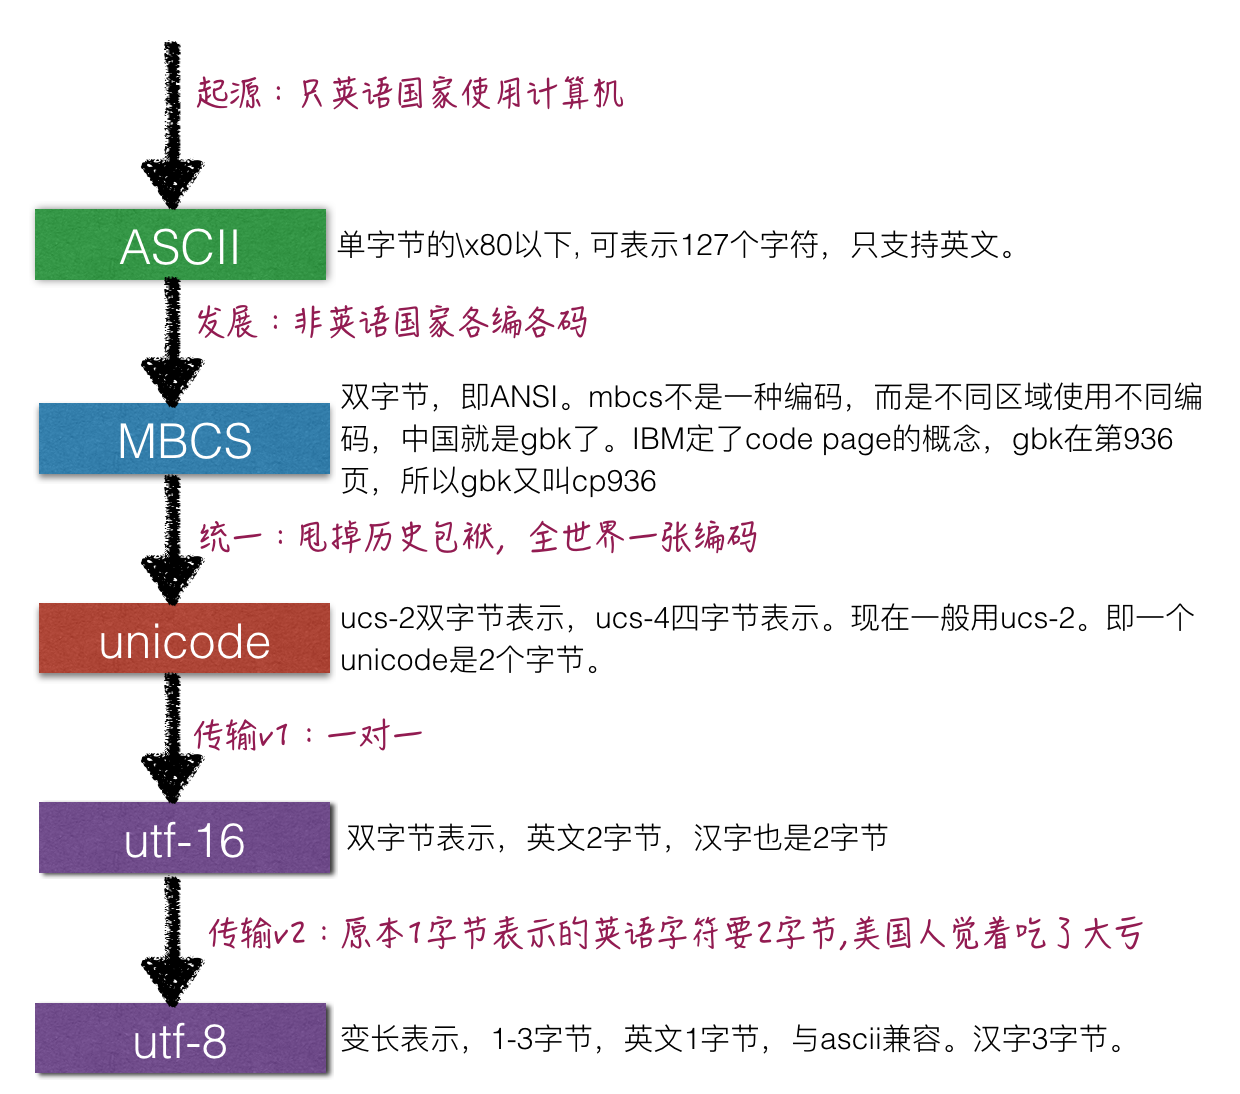
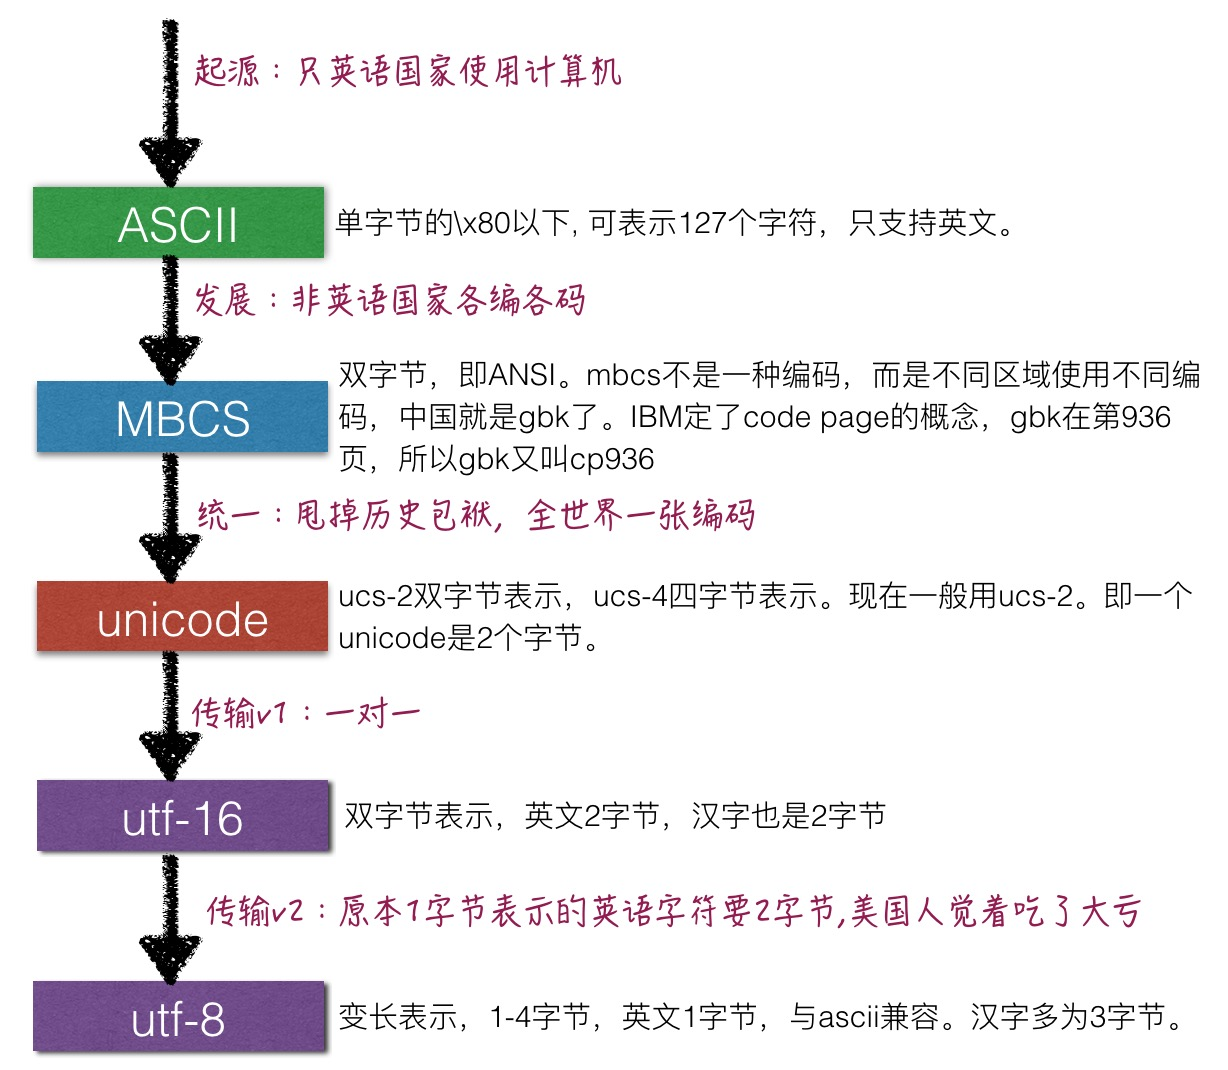
Site updated: 2016-07-19 00:06:20

diff --git a/2016/07/17/字符编码小结/index.html b/2016/07/17/字符编码小结/index.html
@@ -84,20 +84,32 @@
 
 
 
-<meta name="description" content="不总结一下字符编码，简直对不起这些年踩过的坑们。
-字符编码字符编码可以理解为一张一对一的码表，什么？你说你没见过码表，讲真，ascii码表你没见过？！中国常用字符编码的关系可以参考下图。">
+<meta name="description" content="不总结一下字符编码，感觉对不起这些年我踩过的坑们。
+字符编码字符编码可以理解为一张一对一的码表，ascii码表即最常见的码表之一，中国常用字符编码的关系可以参考下图。
+
+美国人可真强势，自己享受1字节，让众多非英语国家，unicode编码从2字节变为2~4字节。中文大多数为3字节。
+GBK你一定对GB2312，GBK，GB1080一堆的玩意不陌生。GB的意思是国标。是在unicode之前中国自己搞">
 <meta property="og:type" content="article">
 <meta property="og:title" content="字符编码小结">
 <meta property="og:url" content="http://yoursite.com/2016/07/17/字符编码小结/index.html">
 <meta property="og:site_name" content="Daisy's Home">
-<meta property="og:description" content="不总结一下字符编码，简直对不起这些年踩过的坑们。
-字符编码字符编码可以理解为一张一对一的码表，什么？你说你没见过码表，讲真，ascii码表你没见过？！中国常用字符编码的关系可以参考下图。">
+<meta property="og:description" content="不总结一下字符编码，感觉对不起这些年我踩过的坑们。
+字符编码字符编码可以理解为一张一对一的码表，ascii码表即最常见的码表之一，中国常用字符编码的关系可以参考下图。
+
+美国人可真强势，自己享受1字节，让众多非英语国家，unicode编码从2字节变为2~4字节。中文大多数为3字节。
+GBK你一定对GB2312，GBK，GB1080一堆的玩意不陌生。GB的意思是国标。是在unicode之前中国自己搞">
 <meta property="og:image" content="http://yoursite.com/img/unicode.png">
-<meta property="og:updated_time" content="2016-07-17T15:59:50.000Z">
+<meta property="og:image" content="http://yoursite.com/img/gbk.png">
+<meta property="og:image" content="http://yoursite.com/img/gbk1.png">
+<meta property="og:image" content="http://yoursite.com/img/endecode.png">
+<meta property="og:updated_time" content="2016-07-18T16:06:00.000Z">
 <meta name="twitter:card" content="summary">
 <meta name="twitter:title" content="字符编码小结">
-<meta name="twitter:description" content="不总结一下字符编码，简直对不起这些年踩过的坑们。
-字符编码字符编码可以理解为一张一对一的码表，什么？你说你没见过码表，讲真，ascii码表你没见过？！中国常用字符编码的关系可以参考下图。">
+<meta name="twitter:description" content="不总结一下字符编码，感觉对不起这些年我踩过的坑们。
+字符编码字符编码可以理解为一张一对一的码表，ascii码表即最常见的码表之一，中国常用字符编码的关系可以参考下图。
+
+美国人可真强势，自己享受1字节，让众多非英语国家，unicode编码从2字节变为2~4字节。中文大多数为3字节。
+GBK你一定对GB2312，GBK，GB1080一堆的玩意不陌生。GB的意思是国标。是在unicode之前中国自己搞">
 <meta name="twitter:image" content="http://yoursite.com/img/unicode.png">
 
 
@@ -291,9 +303,27 @@
       
 
       
-        <p>不总结一下字符编码，简直对不起这些年踩过的坑们。</p>
-<h2 id="字符编码"><a href="#字符编码" class="headerlink" title="字符编码"></a>字符编码</h2><p>字符编码可以理解为一张一对一的码表，什么？你说你没见过码表，讲真，ascii码表你没见过？！中国常用字符编码的关系可以参考下图。</p>
+        <p>不总结一下字符编码，感觉对不起这些年我踩过的坑们。</p>
+<h2 id="字符编码"><a href="#字符编码" class="headerlink" title="字符编码"></a>字符编码</h2><p>字符编码可以理解为一张一对一的码表，ascii码表即最常见的码表之一，中国常用字符编码的关系可以参考下图。</p>
 <p><img src="/img/unicode.png" alt="字符编码"></p>
+<p>美国人可真强势，自己享受1字节，让众多非英语国家，unicode编码从2字节变为2~4字节。中文大多数为3字节。</p>
+<h2 id="GBK"><a href="#GBK" class="headerlink" title="GBK"></a>GBK</h2><p>你一定对GB2312，GBK，GB1080一堆的玩意不陌生。GB的意思是国标。是在unicode之前中国自己搞的一套编码。具体来说就是这样的。</p>
+<p><img src="/img/gbk.png" alt="gbk发展"></p>
+<p>在GB2312阶段，要求2个字节都大于127, 这样，中文汉字与ascii表字符是很好区分的。但这样表示的汉字数量有限，不够发挥啊，所以到GBK阶段，放弃了第2字节必须大于127的要求。这样一来，表示所有汉字倒是够了，但从此以后，中英文夹杂的GBK编码，只能先判断是不是大于127，如果是，我跳一位，如果不是，认为是英文。这简直是<strong><em>万坑之源！！！</em></strong></p>
+<p><img src="/img/gbk1.png" alt="gbk跳"></p>
+<p>从此以后，买张cd看真的好难！</p>
+<p>更别提字符分隔这等事件了，如果你的日志是用竖线分隔，如果你的日志包含中文，如果你的中文是gbk编码，那么。。。我劝你还是转了utf-8再分隔吧。。。</p>
+<figure class="highlight python"><table><tr><td class="gutter"><pre><div class="line">1</div><div class="line">2</div><div class="line">3</div><div class="line">4</div><div class="line">5</div><div class="line">6</div><div class="line">7</div><div class="line">8</div><div class="line">9</div></pre></td><td class="code"><pre><div class="line"><span class="meta">&gt;&gt;&gt; </span>s=<span class="string">"滕华弢|海青"</span></div><div class="line"><span class="meta">&gt;&gt;&gt; </span>s</div><div class="line"><span class="string">'\xeb\xf8\xbb\xaa\x8f||\xba\xa3\xc7\xe0'</span></div><div class="line"><span class="meta">&gt;&gt;&gt; </span>x=s.split(<span class="string">'|'</span>)</div><div class="line">[<span class="string">'\xeb\xf8\xbb\xaa\x8f'</span>, <span class="string">''</span>, <span class="string">'\xba\xa3\xc7\xe0'</span>]</div><div class="line"><span class="meta">&gt;&gt;&gt; </span><span class="keyword">print</span> x[<span class="number">0</span>]</div><div class="line">滕华�</div><div class="line"><span class="meta">&gt;&gt;&gt; </span><span class="keyword">print</span> x[<span class="number">2</span>]</div><div class="line">海青</div></pre></td></tr></table></figure>
+<p>上面的”弢“字，gbk编码为0x8f7c，第2字节编码恰好与分隔线“|”重合了。分隔之后，直接分隔就会导致以上错误。</p>
+<h2 id="UTF-8"><a href="#UTF-8" class="headerlink" title="UTF-8"></a>UTF-8</h2><h4 id="编码"><a href="#编码" class="headerlink" title="编码"></a>编码</h4><p>unicode到utf-16的转换很简单，一对一。到utf-8遵循以下规则。</p>
+<figure class="highlight bash"><table><tr><td class="gutter"><pre><div class="line">1</div><div class="line">2</div><div class="line">3</div><div class="line">4</div><div class="line">5</div><div class="line">6</div><div class="line">7</div><div class="line">8</div></pre></td><td class="code"><pre><div class="line">unicode</div><div class="line">UTF-8</div><div class="line">0000 - 007F</div><div class="line">0xxxxxxx</div><div class="line">0080 - 07FF</div><div class="line">110xxxxx 10xxxxxx</div><div class="line">0800 - FFFF</div><div class="line">1110xxxx 10xxxxxx 10xxxxxx</div></pre></td></tr></table></figure>
+<p>例如”汉”字的Unicode编码是6C49。6C49在0800-FFFF之间，所以要用3字节模板：1110xxxx 10xxxxxx 10xxxxxx。将6C49写成二进制是：0110 1100 0100 1001，将这个比特流按三字节模板的分段方法分为0110 110001 001001，依次代替模板中的x，得到：1110-0110 10-110001 10-001001，即E6 B1 89，这就是其UTF8的编码。</p>
+<h4 id="BOM"><a href="#BOM" class="headerlink" title="BOM"></a>BOM</h4><p>BOM(Byte Order Mark).保存文件的时候不会保存编码格式，打开文件时，却需要解码。这时就有很多麻烦。bom就是utf引入，在文档开头写bom，标识自己的编码格式。</p>
+<figure class="highlight bash"><table><tr><td class="gutter"><pre><div class="line">1</div><div class="line">2</div><div class="line">3</div></pre></td><td class="code"><pre><div class="line">BOM_UTF8 <span class="string">'\xef\xbb\xbf'</span> </div><div class="line">BOM_UTF16_LE <span class="string">'\xff\xfe'</span> </div><div class="line">BOM_UTF16_BE <span class="string">'\xfe\xff'</span></div></pre></td></tr></table></figure>
+<p>并不是所有的编辑器都写入bom，这种编辑器会采用一种默认格式解码，不成功再换另外一种。</p>
+<h4 id="UTF-8还是UTF8"><a href="#UTF-8还是UTF8" class="headerlink" title="UTF-8还是UTF8?"></a>UTF-8还是UTF8?</h4><p>可能在很多地方，你发现utf8,UTF8,utf-8,UTF-8都能用。到底哪个是对的呢？首先大小写是忽略的。UTF-8是标准名字，UTF8是别名，有些语言和场合定义了这个别名，但有些没有。所以用 UTF-8总是保险的。个人发现python,mysql,linux的iconv用二者都可以，node.js的iconv-lite只能用utf-8。</p>
+<h2 id="GBK与UTF-8的转换"><a href="#GBK与UTF-8的转换" class="headerlink" title="GBK与UTF-8的转换"></a>GBK与UTF-8的转换</h2><p>从上面的介绍可以知道：GBK是一张码表。unicode是一张码表。UTF-8是基于unicode的一种编码方式GBK到unicode可以查表得到, unicode到UTF-8可以按规则转换。</p>
+<p><img src="/img/endecode.png" alt="encodedecode"></p>
 
       
     </div>
@@ -425,7 +455,7 @@
               
             
             
-              <div class="post-toc-content"><ol class="nav"><li class="nav-item nav-level-2"><a class="nav-link" href="#字符编码"><span class="nav-number">1.</span> <span class="nav-text">字符编码</span></a></li></ol></div>
+              <div class="post-toc-content"><ol class="nav"><li class="nav-item nav-level-2"><a class="nav-link" href="#字符编码"><span class="nav-number">1.</span> <span class="nav-text">字符编码</span></a></li><li class="nav-item nav-level-2"><a class="nav-link" href="#GBK"><span class="nav-number">2.</span> <span class="nav-text">GBK</span></a></li><li class="nav-item nav-level-2"><a class="nav-link" href="#UTF-8"><span class="nav-number">3.</span> <span class="nav-text">UTF-8</span></a><ol class="nav-child"><li class="nav-item nav-level-4"><a class="nav-link" href="#编码"><span class="nav-number">3.0.1.</span> <span class="nav-text">编码</span></a></li><li class="nav-item nav-level-4"><a class="nav-link" href="#BOM"><span class="nav-number">3.0.2.</span> <span class="nav-text">BOM</span></a></li><li class="nav-item nav-level-4"><a class="nav-link" href="#UTF-8还是UTF8"><span class="nav-number">3.0.3.</span> <span class="nav-text">UTF-8还是UTF8?</span></a></li></ol></li></ol></li><li class="nav-item nav-level-2"><a class="nav-link" href="#GBK与UTF-8的转换"><span class="nav-number">4.</span> <span class="nav-text">GBK与UTF-8的转换</span></a></li></ol></div>
             
           </div>
         </section>

diff --git a/index.html b/index.html
@@ -292,9 +292,27 @@
       
         
           
-            <p>不总结一下字符编码，简直对不起这些年踩过的坑们。</p>
-<h2 id="字符编码"><a href="#字符编码" class="headerlink" title="字符编码"></a>字符编码</h2><p>字符编码可以理解为一张一对一的码表，什么？你说你没见过码表，讲真，ascii码表你没见过？！中国常用字符编码的关系可以参考下图。</p>
+            <p>不总结一下字符编码，感觉对不起这些年我踩过的坑们。</p>
+<h2 id="字符编码"><a href="#字符编码" class="headerlink" title="字符编码"></a>字符编码</h2><p>字符编码可以理解为一张一对一的码表，ascii码表即最常见的码表之一，中国常用字符编码的关系可以参考下图。</p>
 <p><img src="/img/unicode.png" alt="字符编码"></p>
+<p>美国人可真强势，自己享受1字节，让众多非英语国家，unicode编码从2字节变为2~4字节。中文大多数为3字节。</p>
+<h2 id="GBK"><a href="#GBK" class="headerlink" title="GBK"></a>GBK</h2><p>你一定对GB2312，GBK，GB1080一堆的玩意不陌生。GB的意思是国标。是在unicode之前中国自己搞的一套编码。具体来说就是这样的。</p>
+<p><img src="/img/gbk.png" alt="gbk发展"></p>
+<p>在GB2312阶段，要求2个字节都大于127, 这样，中文汉字与ascii表字符是很好区分的。但这样表示的汉字数量有限，不够发挥啊，所以到GBK阶段，放弃了第2字节必须大于127的要求。这样一来，表示所有汉字倒是够了，但从此以后，中英文夹杂的GBK编码，只能先判断是不是大于127，如果是，我跳一位，如果不是，认为是英文。这简直是<strong><em>万坑之源！！！</em></strong></p>
+<p><img src="/img/gbk1.png" alt="gbk跳"></p>
+<p>从此以后，买张cd看真的好难！</p>
+<p>更别提字符分隔这等事件了，如果你的日志是用竖线分隔，如果你的日志包含中文，如果你的中文是gbk编码，那么。。。我劝你还是转了utf-8再分隔吧。。。</p>
+<figure class="highlight python"><table><tr><td class="gutter"><pre><div class="line">1</div><div class="line">2</div><div class="line">3</div><div class="line">4</div><div class="line">5</div><div class="line">6</div><div class="line">7</div><div class="line">8</div><div class="line">9</div></pre></td><td class="code"><pre><div class="line"><span class="meta">&gt;&gt;&gt; </span>s=<span class="string">"滕华弢|海青"</span></div><div class="line"><span class="meta">&gt;&gt;&gt; </span>s</div><div class="line"><span class="string">'\xeb\xf8\xbb\xaa\x8f||\xba\xa3\xc7\xe0'</span></div><div class="line"><span class="meta">&gt;&gt;&gt; </span>x=s.split(<span class="string">'|'</span>)</div><div class="line">[<span class="string">'\xeb\xf8\xbb\xaa\x8f'</span>, <span class="string">''</span>, <span class="string">'\xba\xa3\xc7\xe0'</span>]</div><div class="line"><span class="meta">&gt;&gt;&gt; </span><span class="keyword">print</span> x[<span class="number">0</span>]</div><div class="line">滕华�</div><div class="line"><span class="meta">&gt;&gt;&gt; </span><span class="keyword">print</span> x[<span class="number">2</span>]</div><div class="line">海青</div></pre></td></tr></table></figure>
+<p>上面的”弢“字，gbk编码为0x8f7c，第2字节编码恰好与分隔线“|”重合了。分隔之后，直接分隔就会导致以上错误。</p>
+<h2 id="UTF-8"><a href="#UTF-8" class="headerlink" title="UTF-8"></a>UTF-8</h2><h4 id="编码"><a href="#编码" class="headerlink" title="编码"></a>编码</h4><p>unicode到utf-16的转换很简单，一对一。到utf-8遵循以下规则。</p>
+<figure class="highlight bash"><table><tr><td class="gutter"><pre><div class="line">1</div><div class="line">2</div><div class="line">3</div><div class="line">4</div><div class="line">5</div><div class="line">6</div><div class="line">7</div><div class="line">8</div></pre></td><td class="code"><pre><div class="line">unicode</div><div class="line">UTF-8</div><div class="line">0000 - 007F</div><div class="line">0xxxxxxx</div><div class="line">0080 - 07FF</div><div class="line">110xxxxx 10xxxxxx</div><div class="line">0800 - FFFF</div><div class="line">1110xxxx 10xxxxxx 10xxxxxx</div></pre></td></tr></table></figure>
+<p>例如”汉”字的Unicode编码是6C49。6C49在0800-FFFF之间，所以要用3字节模板：1110xxxx 10xxxxxx 10xxxxxx。将6C49写成二进制是：0110 1100 0100 1001，将这个比特流按三字节模板的分段方法分为0110 110001 001001，依次代替模板中的x，得到：1110-0110 10-110001 10-001001，即E6 B1 89，这就是其UTF8的编码。</p>
+<h4 id="BOM"><a href="#BOM" class="headerlink" title="BOM"></a>BOM</h4><p>BOM(Byte Order Mark).保存文件的时候不会保存编码格式，打开文件时，却需要解码。这时就有很多麻烦。bom就是utf引入，在文档开头写bom，标识自己的编码格式。</p>
+<figure class="highlight bash"><table><tr><td class="gutter"><pre><div class="line">1</div><div class="line">2</div><div class="line">3</div></pre></td><td class="code"><pre><div class="line">BOM_UTF8 <span class="string">'\xef\xbb\xbf'</span> </div><div class="line">BOM_UTF16_LE <span class="string">'\xff\xfe'</span> </div><div class="line">BOM_UTF16_BE <span class="string">'\xfe\xff'</span></div></pre></td></tr></table></figure>
+<p>并不是所有的编辑器都写入bom，这种编辑器会采用一种默认格式解码，不成功再换另外一种。</p>
+<h4 id="UTF-8还是UTF8"><a href="#UTF-8还是UTF8" class="headerlink" title="UTF-8还是UTF8?"></a>UTF-8还是UTF8?</h4><p>可能在很多地方，你发现utf8,UTF8,utf-8,UTF-8都能用。到底哪个是对的呢？首先大小写是忽略的。UTF-8是标准名字，UTF8是别名，有些语言和场合定义了这个别名，但有些没有。所以用 UTF-8总是保险的。个人发现python,mysql,linux的iconv用二者都可以，node.js的iconv-lite只能用utf-8。</p>
+<h2 id="GBK与UTF-8的转换"><a href="#GBK与UTF-8的转换" class="headerlink" title="GBK与UTF-8的转换"></a>GBK与UTF-8的转换</h2><p>从上面的介绍可以知道：GBK是一张码表。unicode是一张码表。UTF-8是基于unicode的一种编码方式GBK到unicode可以查表得到, unicode到UTF-8可以按规则转换。</p>
+<p><img src="/img/endecode.png" alt="encodedecode"></p>
 
           
         

diff --git a/css/main.css b/css/main.css
@@ -497,8 +497,8 @@ pre,
   margin: 20px 0;
   padding: 15px;
   font-size: 13px;
-  color: #4d4d4c;
-  background: #f7f7f7;
+  color: #fff;
+  background: #002451;
   line-height: 1.6;
 }
 pre,
@@ -515,7 +515,7 @@ code {
 }
 pre code {
   padding: 0;
-  color: #4d4d4c;
+  color: #fff;
   background: none;
   text-shadow: none;
 }
@@ -535,7 +535,7 @@ pre code {
 }
 .highlight figcaption {
   font-size: 1em;
-  color: #4d4d4c;
+  color: #fff;
   line-height: 1em;
   margin-bottom: 1em;
 }
@@ -549,10 +549,10 @@ pre code {
 }
 .highlight figcaption a {
   float: right;
-  color: #4d4d4c;
+  color: #fff;
 }
 .highlight figcaption a:hover {
-  border-bottom-color: #4d4d4c;
+  border-bottom-color: #fff;
 }
 .highlight .gutter pre {
   color: #666;
@@ -569,7 +569,7 @@ pre code {
   border: none;
 }
 pre .comment {
-  color: #8e908c;
+  color: #7285b7;
 }
 pre .variable,
 pre .attribute,
@@ -583,7 +583,7 @@ pre .html .doctype,
 pre .css .id,
 pre .css .class,
 pre .css .pseudo {
-  color: #c82829;
+  color: #ff9da4;
 }
 pre .number,
 pre .preprocessor,
@@ -592,7 +592,7 @@ pre .literal,
 pre .params,
 pre .constant,
 pre .command {
-  color: #f5871f;
+  color: #ffc58f;
 }
 pre .ruby .class .title,
 pre .css .rules .attribute,
@@ -605,11 +605,11 @@ pre .xml .cdata,
 pre .special,
 pre .number,
 pre .formula {
-  color: #718c00;
+  color: #d1f1a9;
 }
 pre .title,
 pre .css .hexcolor {
-  color: #3e999f;
+  color: #9ff;
 }
 pre .function,
 pre .python .decorator,
@@ -619,11 +619,11 @@ pre .ruby .title .keyword,
 pre .perl .sub,
 pre .javascript .title,
 pre .coffeescript .title {
-  color: #4271ae;
+  color: #bbdaff;
 }
 pre .keyword,
 pre .javascript .function {
-  color: #8959a8;
+  color: #ebbbff;
 }
 .full-image.full-image.full-image {
   border: none;
@@ -1549,7 +1549,7 @@ pre .javascript .function {
   width: 4px;
   height: 4px;
   border-radius: 50%;
-  background: #8fa813;
+  background: #c3b4c2;
 }
 .links-of-blogroll {
   font-size: 13px;
